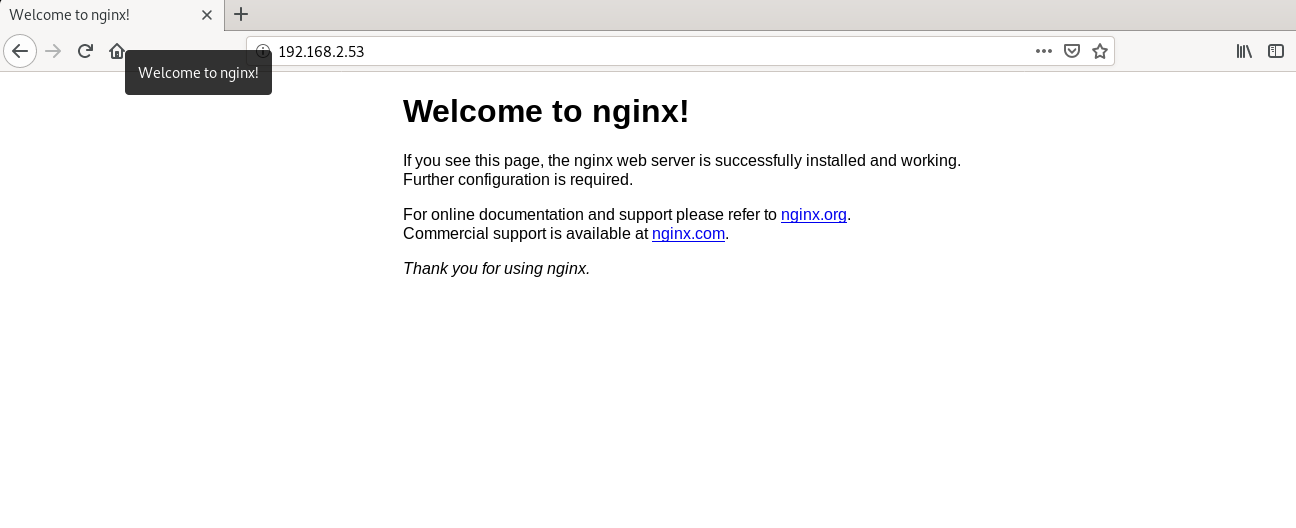
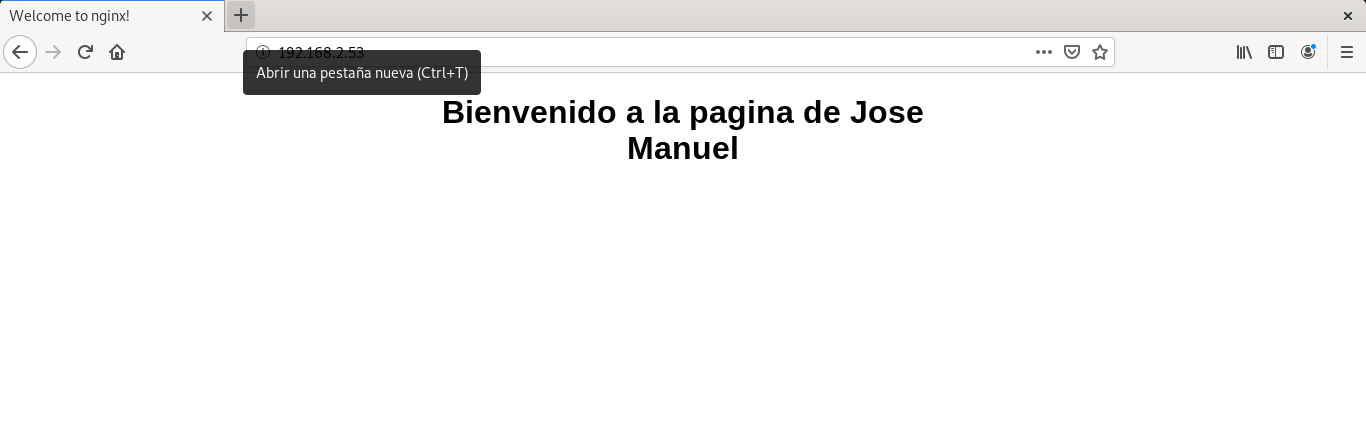
cambios

Changed region(s): [[0.0, 0.0, 1.0, 0.4727], [0.3086, 0.5023, 0.463, 0.5318]]

diff --git a/CasosPracticos.md b/CasosPracticos.md
@@ -1,0 +1,15 @@
+# Nginx
+
+ 
+## Casos practicos
+
+*Vamos a mostrar acontinuación los casos practicos por apartados y estaran enlazados a una pagina aparte donde estara los codigos de cada apartado*
+
+ * Apartado a
+
+
+<img src=/capturas/apartadoA.png width=600px>
+
+
+
+
